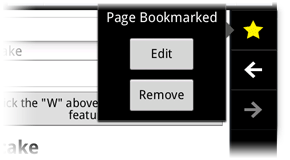
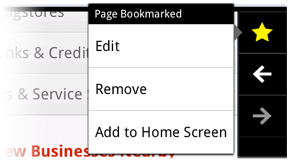
update to mobile features page - bug 693387
git-svn-id: svn+ssh://svn.mozilla.org/projects/mozilla.com/trunk@96526 4eb1ac78-321c-0410-a911-ec516a8615a5

diff --git a/en-US/mobile/features/index.html b/en-US/mobile/features/index.html
@@ -148,7 +148,7 @@ EXTRA_HEADERS;
 		<div class="column3">
 			<div class="feature">
 				<h4>One-Touch Bookmarking</h4>
-				<p>Swipe to the left and bookmark a site you love with one touch. Then, you can tag and save it to make sure it always appears in your Awesome Screen for easy access.</p>
+				<p>Swipe the screen to the left and bookmark a site you love with one touch. You can then tag and save it to make sure it always appears on your Awesome Screen. Bookmarked sites can also be added directly to your Android home screen for easy access.</p>
 				<img src="/img/covehead/mobile/screen-1touchbookmarks-mobile.png" width="290" height="160" alt="" />
 			</div>
 		</div>
